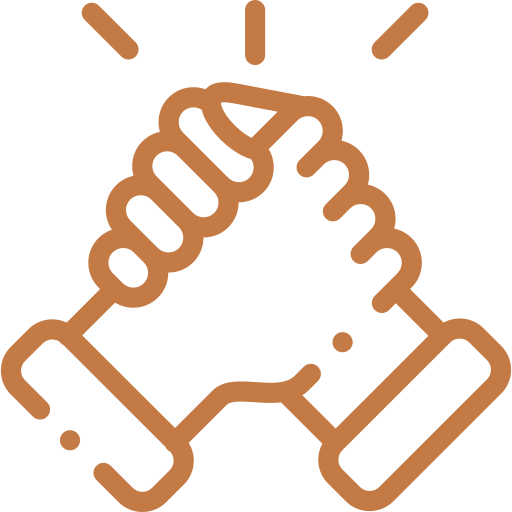
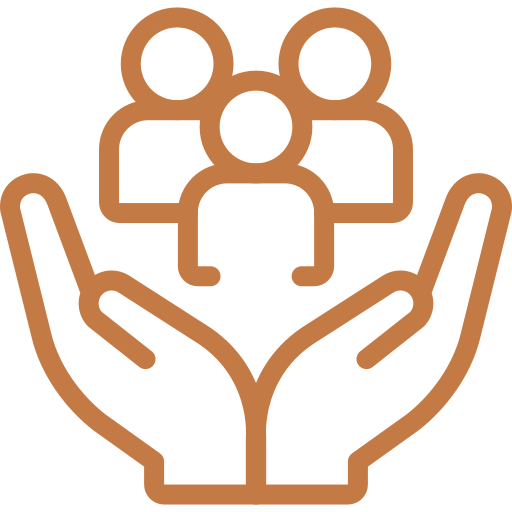
Enhance UI & Graphic

diff --git a/Components/Footer.js b/Components/Footer.js
@@ -1,10 +1,96 @@
-import React from 'react'
+'use client'
+
+import React, { useRef } from 'react'
+import Link from 'next/link'
+import { usePathname } from 'next/navigation'
+import { Player } from '@lordicon/react'
+import GithubIcon from '../public/github_logo.json'
+import InstagramIcon from '../public/instagram_logo.json'
+import YoutubeIcon from '../public/youtube_logo.json'
 
 const Footer = () => {
+  const githubIconRef = useRef(null)
+  const youtubeIconRef = useRef(null)
+  const instagramIconRef = useRef(null)
+  const pathname = usePathname()
+
+  const replayIcon = (iconRef) => {
+    iconRef.current?.playFromBeginning()
+  }
+
+  const navLinkClass = (href) => `nav-link ${pathname === href ? 'active text-warm-white' : 'text-soft-latte hover:text-warm-white'} font-label-md text-label-md transition-colors duration-200`
+
   return (
-    <footer className="bg-espresso text-warm-white p-4 text-center fixed bottom-0 w-full font-medium">
-        Copyright &copy; 2026 GetMeACoffee - All rights reserved.
-    </footer>
+    <nav className="fixed bottom-0 z-10 bg-espresso border-t border-coffee-border w-full text-warm-white">
+      <div className='flex justify-between items-center p-4 py-3 px-5 w-full mx-auto'>
+        <div className="logo flex items-center gap-3 text-2xl font-bold">
+          <Link className="img cursor-pointer flex items-center bg-coffee p-2 rounded-xl" href="/">
+            <img className="h-8 w-8 " src="/Logo.png" alt="Coffee-Cup" />
+          </Link>
+          <div className="text flex-row">
+            <span className='text-warm-white cursor-pointer'><Link href="/">GetMeACoffee</Link></span>
+            <p className='text-soft-latte text-sm font-semibold cursor-default'>Support Creators. Fuel Ideas. Keep the Internet Creative.</p>
+          </div>
+        </div>
+        <div className="flex text-lg font-medium space-x-9 ">
+          <Link className="text-soft-latte hover:text-warm-white transition-colors duration-200" href="/about">
+            About
+          </Link>
+          <Link className="text-soft-latte hover:text-warm-white transition-colors duration-200" href="/privacy">
+            Privacy
+          </Link>
+          <Link className="text-soft-latte hover:text-warm-white transition-colors duration-200" href="/terms">
+            Terms
+          </Link>
+          <Link className="text-soft-latte hover:text-warm-white transition-colors duration-200" href="/contact">
+            Contact
+          </Link>
+        </div>
+        <div className="flex w-[15%] justify-end text-lg font-semibold space-x-5 pr-4 ">
+          <Link className="text-warm-white hover:text-soft-latte transition-colors duration-200" href="https://github.com/chiragackerman/Get-Me-A-Coffee" target="_blank" rel="noopener noreferrer">
+            <div
+              className="cursor-pointer flex h-8 w-8 items-center justify-center"
+              onMouseEnter={() => replayIcon(githubIconRef)}
+              role="img"
+              aria-label="Github"
+            >
+              <Player ref={githubIconRef} icon={GithubIcon} size={32} />
+            </div>
+          </Link>
+          <Link className="text-warm-white hover:text-soft-latte transition-colors duration-200" href="https://www.youtube.com/@Chirag.ackerman" target="_blank" rel="noopener noreferrer">
+            <div
+              className="cursor-pointer flex h-8 w-8 items-center justify-center"
+              onMouseEnter={() => replayIcon(youtubeIconRef)}
+              role="img"
+              aria-label="Youtube"
+            >
+              <Player ref={youtubeIconRef} icon={YoutubeIcon} size={32} />
+            </div>
+          </Link>
+          <Link className="text-warm-white hover:text-soft-latte transition-colors duration-200" href="https://www.instagram.com/chirag.ackerman/" target="_blank" rel="noopener noreferrer">
+            <div
+              className="cursor-pointer flex h-8 w-8 items-center justify-center"
+              onMouseEnter={() => replayIcon(instagramIconRef)}
+              role="img"
+              aria-label="Instagram"
+            >
+              <Player ref={instagramIconRef} icon={InstagramIcon} size={32} />
+            </div>
+          </Link>
+        </div>
+      </div>
+      <hr className="border-coffee w-[98%] mx-auto my-1" />
+      <div className="cursor-default px-6 py-3 flex justify-between text-soft-latte">
+        <p>&copy; {new Date().getFullYear()} GetMeACoffee. All rights reserved.</p>
+        <p className="text-center sm:text-right pr-2">
+          Built with <span className="text-[#C47A44]">☕</span> &{" "}
+          <span className="text-[#C47A44]">❤</span> by{" "}
+          <span className="font-medium">
+            Chirag.ackerman
+          </span>
+        </p>
+      </div>
+    </nav>
   )
 }
 

diff --git a/Components/Navbar.js b/Components/Navbar.js
@@ -20,10 +20,12 @@ const Navbar = () => {
     <nav className="sticky top-0 z-10 bg-warm-white border-b border-coffee-border">
       <div className='flex justify-between items-center p-4 py-3 px-5 w-full mx-auto'>
         <div className="logo flex items-center gap-3 text-2xl font-bold">
-          <div className="img flex items-center bg-coffee p-2 rounded-xl"><img className="h-8 w-8 " src="/Logo.png" alt="Coffee-Cup" /></div>
+          <Link className="img cursor-pointer flex items-center bg-coffee p-2 rounded-xl" href="/">
+            <img className="h-8 w-8 " src="/Logo.png" alt="Coffee-Cup" />
+          </Link>
           <div className="text flex-row">
-            <span className='text-espresso'>GetMeACoffee</span>
-            <p className='text-mocha text-sm font-semibold'>Support Creators. Fuel Ideas</p>
+            <span className='text-espresso  cursor-pointer'><Link href="/">GetMeACoffee</Link></span>
+            <p className='text-mocha text-sm font-semibold cursor-default'>Support Creators. Fuel Ideas</p>
           </div>
         </div>
         <div className="flex text-lg font-bold space-x-9 ">
@@ -49,9 +51,9 @@ const Navbar = () => {
           >
             <Player ref={searchIconRef} icon={SearchIcon} size={32} />
           </div>
-          <button className="text-lg cursor-pointer rounded-4xl bg-coffee px-6 py-3 font-medium text-warm-white transition-colors hover:bg-dark-roast duration-300">
+          <Link className="text-lg cursor-pointer rounded-4xl bg-coffee px-6 py-3 font-medium text-warm-white transition-colors hover:bg-dark-roast duration-300" href="/signin">
             Sign In
-          </button>
+          </Link>
         </div>
       </div>
     </nav>

diff --git a/app/page.js b/app/page.js
@@ -4,16 +4,16 @@ export default function Home() {
       <div className="hero border-b border-coffee-border relative h-full bg-[#f8ecd9]">
         <img className="h-full w-full object-contain object-right" src="/CafeBg.png" alt="Cafe background" />
         <div className="text-content absolute top-[25%] left-[10%]">
-          <div className="tag flex items-center gap-3 text-md font-semibold text-caramel bg-soft-latte px-4 py-2 rounded-3xl w-fit">
+          <div className="tag cursor-default flex items-center gap-3 text-md font-semibold text-caramel bg-soft-latte px-4 py-2 rounded-3xl w-fit">
             <div className="img flex items-center rounded-xl"><img className="h-6 w-6 " src="/support.png" alt="Coffee-Cup" /></div>
             <span>Support Creators</span>
           </div>
-          <h1 className="font-heading mt-2 text-7xl font-bold text-espresso">
+          <h1 className="cursor-default font-heading mt-2 text-7xl font-bold text-espresso">
             Fuel creativity,
             <br />
             one <span className="text-caramel">coffee</span> at a time.
           </h1>
-          <p className="mt-4 max-w-xl text-2xl font-bold text-mocha font-inter">
+          <p className="cursor-default mt-4 max-w-xl text-2xl font-bold text-mocha font-inter">
             Support your favorite creators and help them bring their ideas to life with just a cup of virtual coffee. Every cup counts!
           </p>
           <div className="btns flex mt-5 gap-4">
